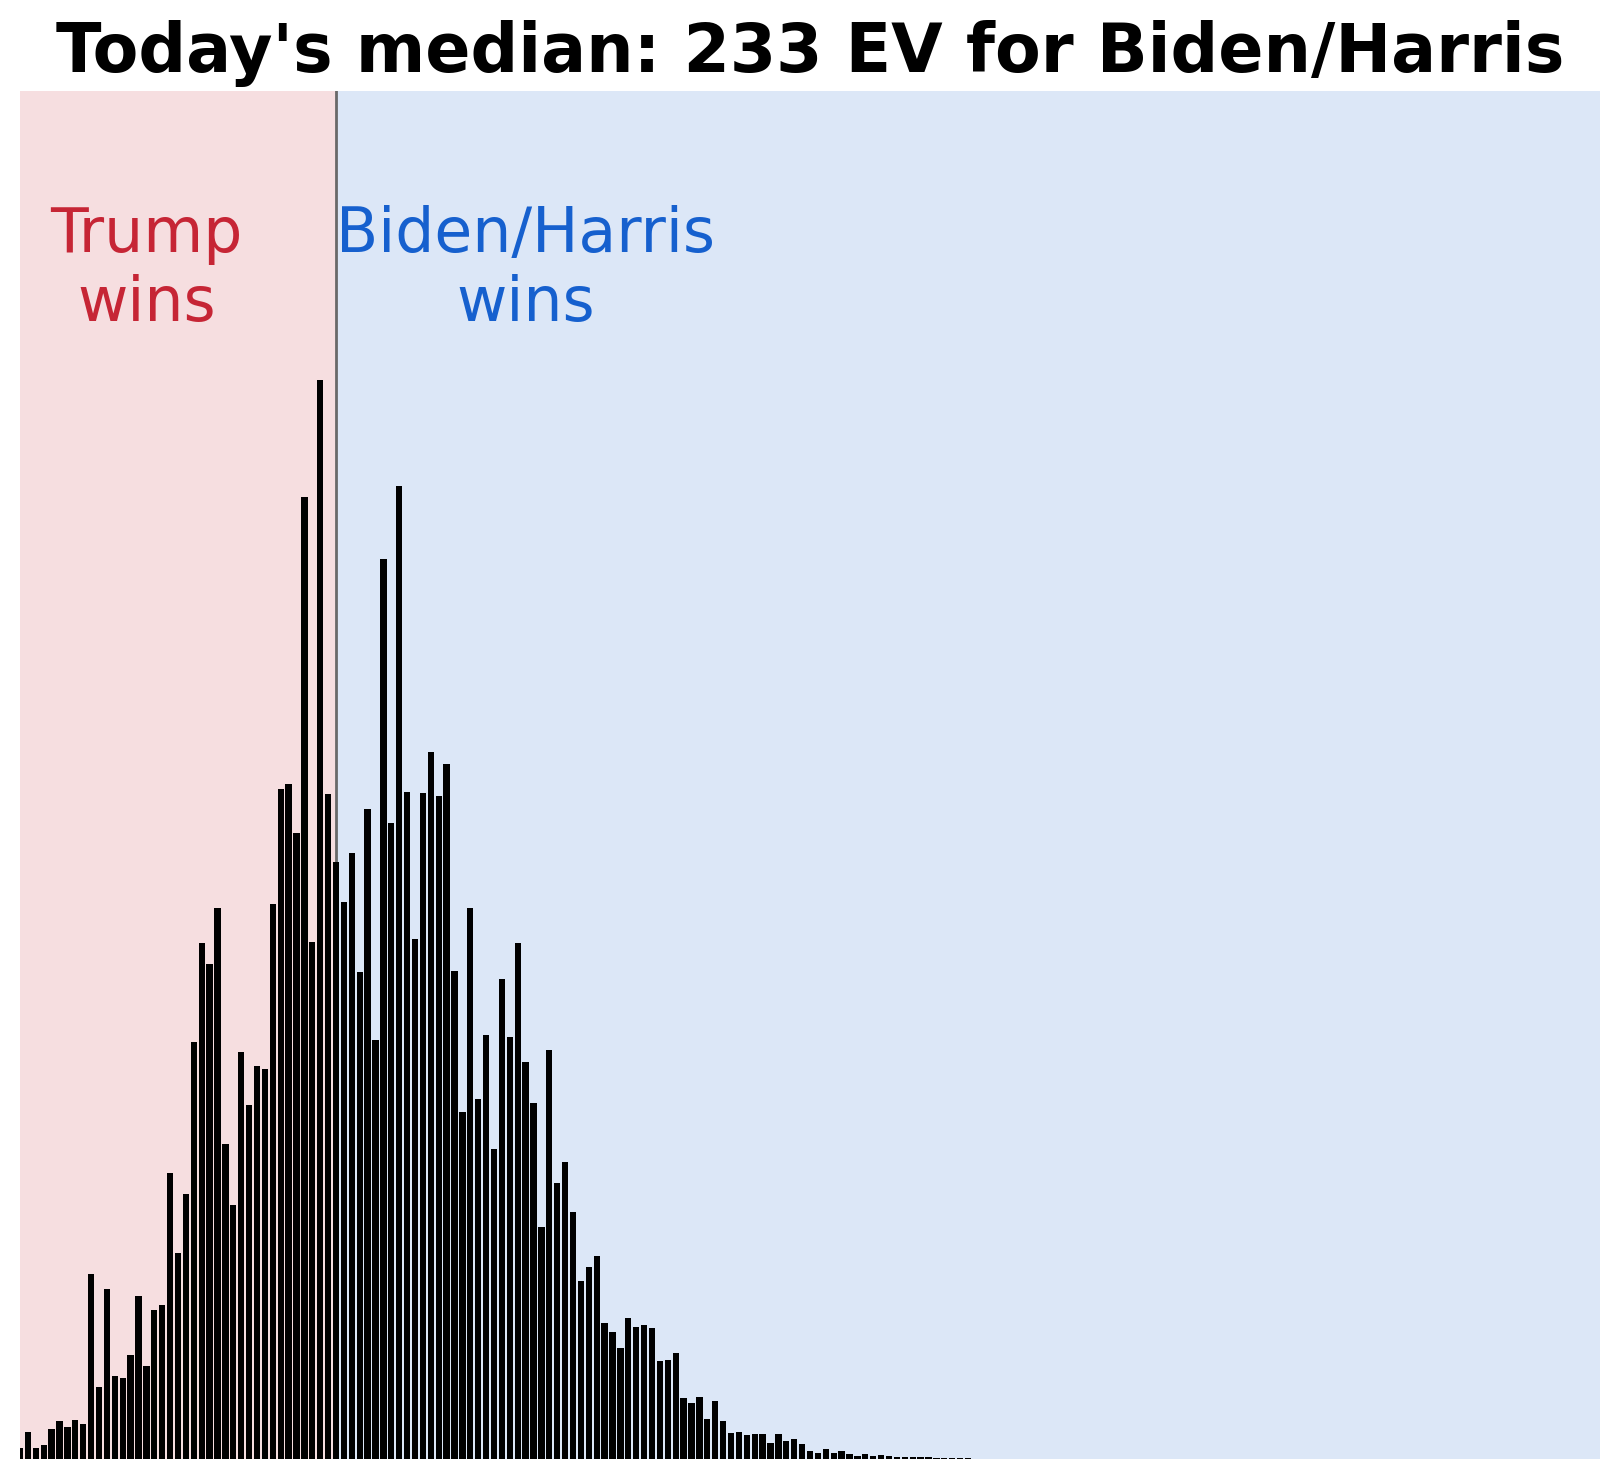
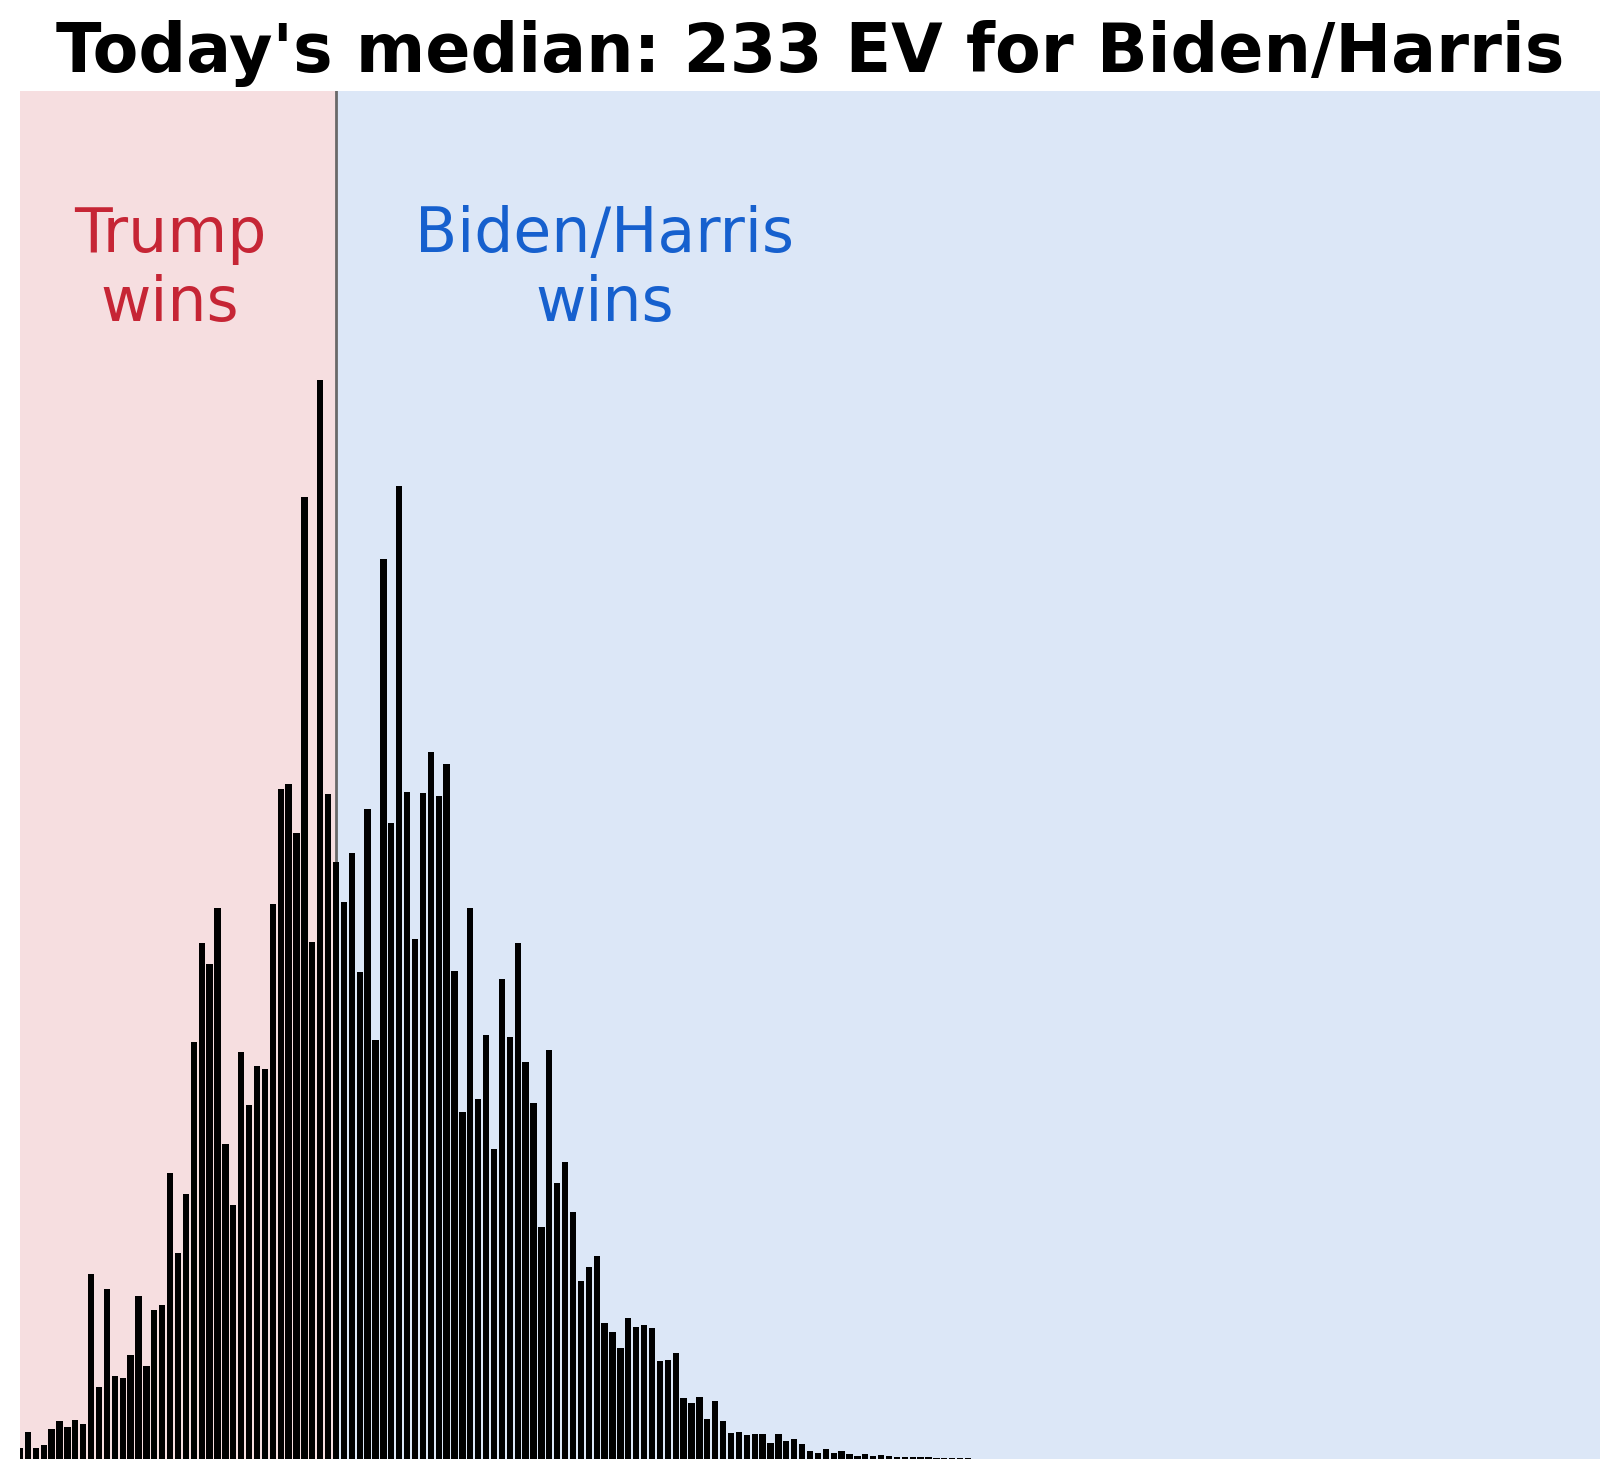
Adjusted EV histogram text position

Changed region(s): [[0.216, 0.1244, 0.4938, 0.2177], [0.0309, 0.1244, 0.1543, 0.2177]]

diff --git a/python_graphics/plotting_util.py b/python_graphics/plotting_util.py
@@ -994,6 +994,7 @@ def generate_histogram(
         # Customs               # all optional, for EV only?
         hard_median = False, 
         hard_median_data_file=None,
+        ev_extra_pad = False,   # optional, for EV only
 
         # ------------------------------------------------------
 
@@ -1114,6 +1115,10 @@ def generate_histogram(
 
         if vline_labels is not None:
             pad_data_units = vline_lab_pad * np.diff(ax.get_xlim())
+            if ev_extra_pad: # For EV histogram only
+                x_extra_pad = 13 # trial-and-error 
+            else:
+                x_extra_pad = 0
 
             # Opponent (2024: Trump/Rep)
             ax.text(x=vline_xpos - pad_data_units,
@@ -1125,7 +1130,7 @@ def generate_histogram(
                     **TXT_KW)
             
             # Incumbent (2024: Biden/Dem)
-            ax.text(x=vline_xpos + pad_data_units,
+            ax.text(x=vline_xpos + pad_data_units + x_extra_pad,
                     y=VLINE_LAB_YPOS,
                     s=vline_labels[1],
                     fontsize=FONT_SIZE_MED,

diff --git a/python_graphics/graphics_util.py b/python_graphics/graphics_util.py
@@ -309,6 +309,7 @@ def generate_ev_histogram_graphics():
                 # Customs
                 hard_median = True,
                 hard_median_data_file = f'EV_estimates_{YEAR}.csv',
+                ev_extra_pad = True,
         )
 
         ev_histogram = os.path.join(out_dir, f'ev_histogram_{YEAR}')
